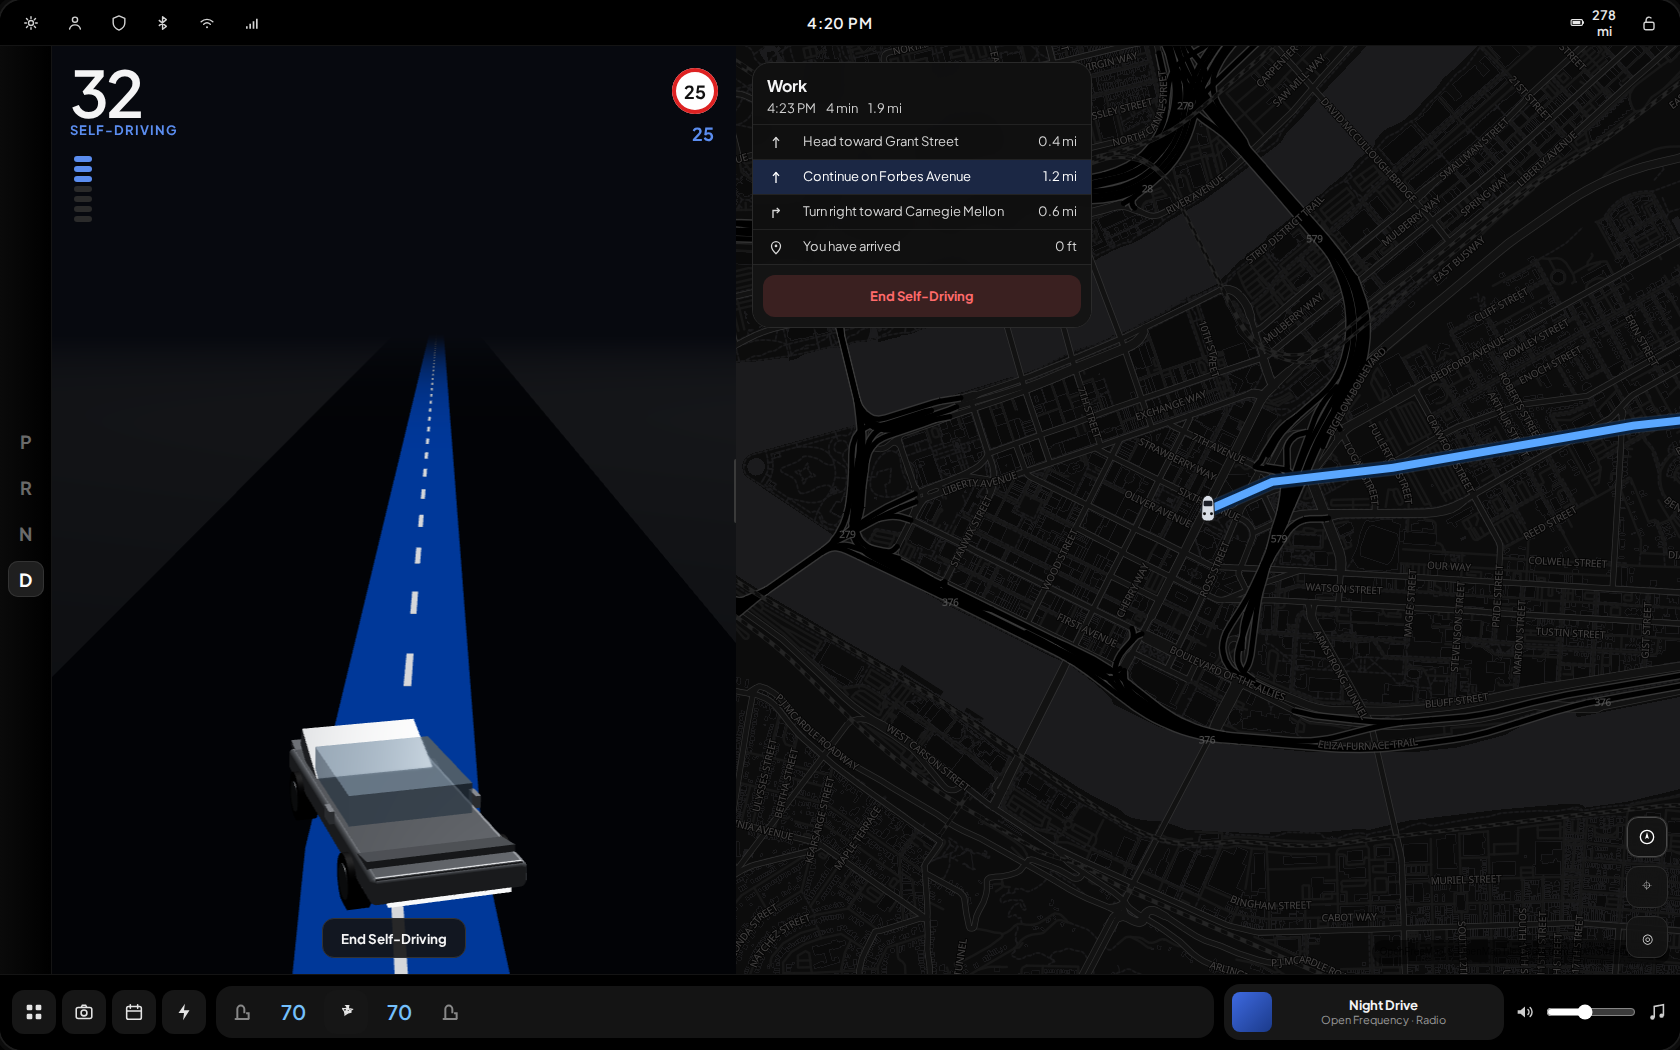
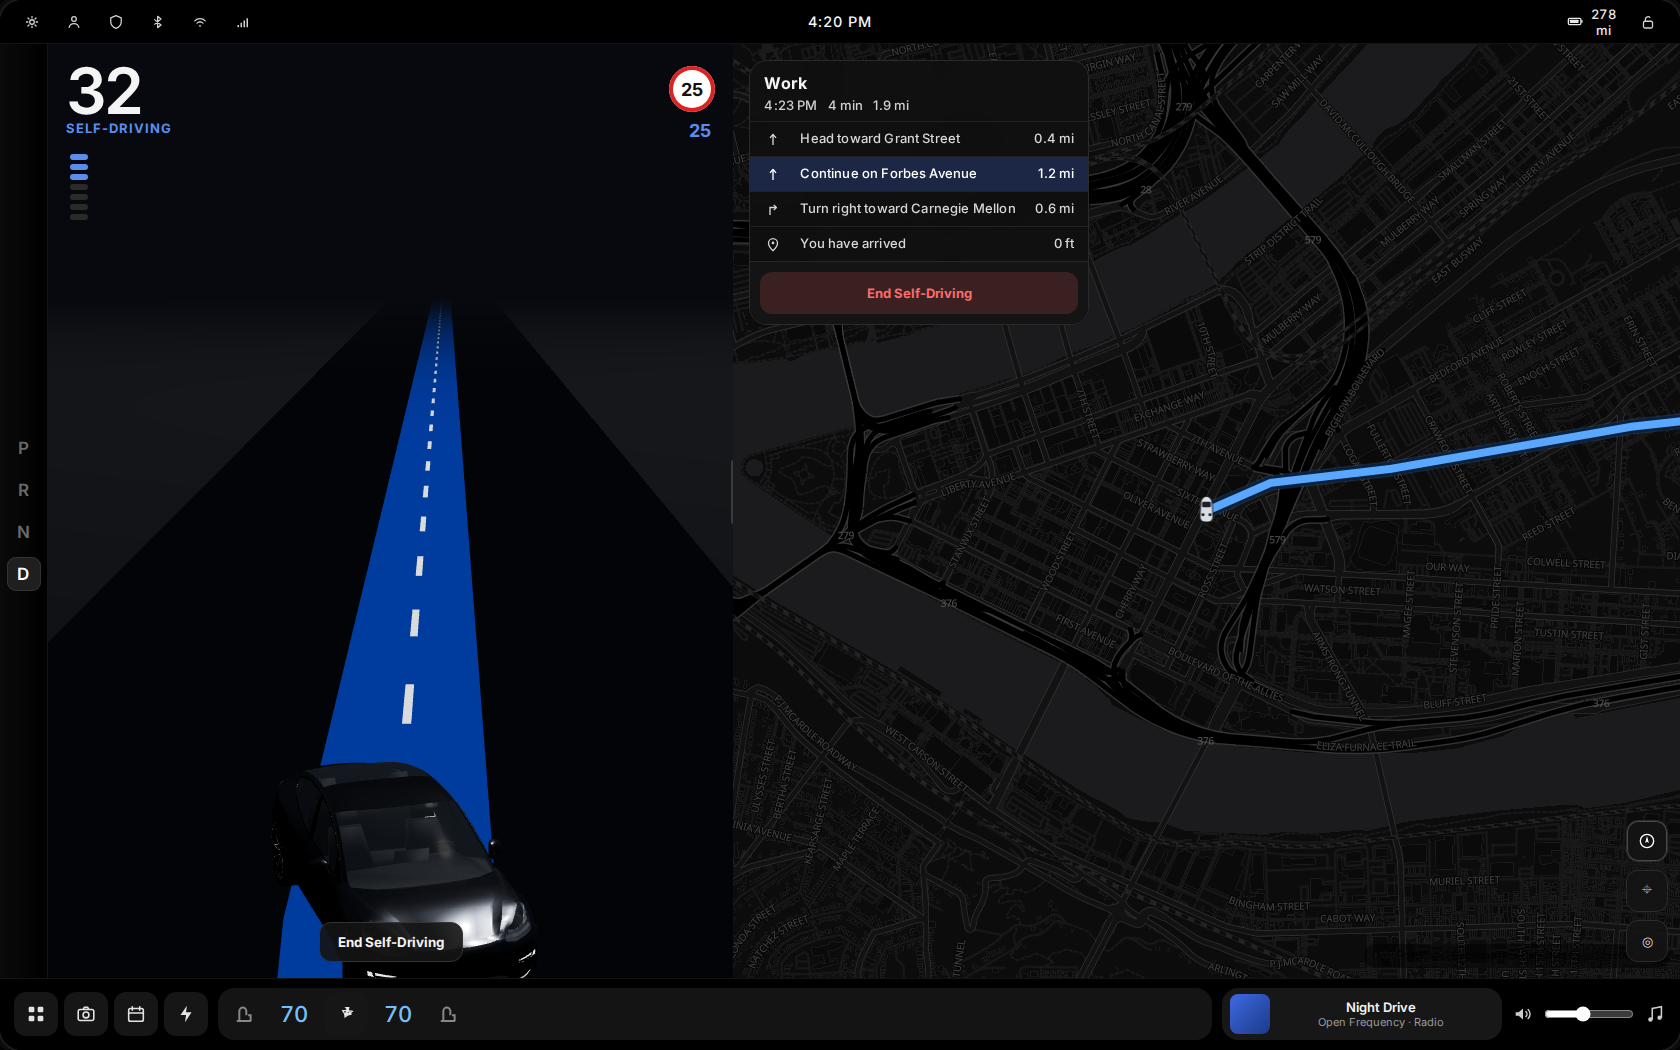
Rebaseline QA stills after parked fullscreen Model 3
npm run qa:screenshots against the CC-BY studio. parked-home is
PARTIAL vs nata-parked-car-vis.jpg (full-screen car, map snippet,
Navigate + media). Give Playwright more time for Draco/GLB load.

diff --git a/tests/visual/qa.spec.ts b/tests/visual/qa.spec.ts
@@ -6,7 +6,7 @@ const OUT = path.join("docs", "qa", "screenshots");
 
 async function capture(page: import("@playwright/test").Page, scene: QaSceneId): Promise<void> {
   await page.goto(`/tesla-m3y-ui/?qa=${scene}`, { waitUntil: "domcontentloaded" });
-  await page.waitForSelector('html[data-qa-ready="true"]', { timeout: 45_000 });
+  await page.waitForSelector('html[data-qa-ready="true"]', { timeout: 90_000 });
   await page.evaluate(async () => {
     await document.fonts.ready;
   });

diff --git a/playwright.qa.config.ts b/playwright.qa.config.ts
@@ -4,7 +4,7 @@ export default defineConfig({
   testDir: "./tests/visual",
   fullyParallel: false,
   workers: 1,
-  timeout: 90_000,
+  timeout: 120_000,
   expect: { timeout: 20_000 },
   reporter: [["list"]],
   use: {

diff --git a/docs/qa/CHECKLIST.md b/docs/qa/CHECKLIST.md
@@ -21,10 +21,10 @@ Baseline captured from this harness on 2026-09-16 (`docs/qa/screenshots/*.png`).
 | --- | --- | --- | --- | --- |
 | Parked home | `screenshots/parked-home.png` | `manual-m3-touchscreen-p8.jpg`, `nata-parked-car-vis.jpg` | PARTIAL | Full-screen CC-BY Model 3, light studio, faded map snippet TR, Navigate + media lower third (`parked-home.png` 2026-09-16). Remaining vs `nata-parked-car-vis.jpg`: mesh/PBR not Tesla-grade (dark gray 3/4 hero, not red rear-3/4), TRUNK Open is a chip not a callout card, PRND still full-height, status-bar order still FAIL. |
 | Route set | `screenshots/route-set.png` | `manual-m3-maps-nav-p170.jpg`, `nata-trip-progress.jpg` | PARTIAL | Turn list + Start FSD sit on the parked fullscreen (map snippet TR). No traffic progress bar, no gray traveled path, no energy-to-destination. |
-| FSD engaged | `screenshots/fsd-engaged.png` | `manual-m3-driving-status-p16.jpg`, `nata-ui-v12-hero.jpg` | FAIL | Viz does not prove it sits on the same road the map drives. Cheap traffic/lanes. Media player is in the dock, not on the viz. |
+| FSD engaged | `screenshots/fsd-engaged.png` | `manual-m3-driving-status-p16.jpg`, `nata-ui-v12-hero.jpg` | FAIL | CC Model 3 now sits on the ribbon (this PR) but does not prove it is on the same road the map drives. Cheap traffic/lanes. Media player is in the dock, not on the viz. |
 | Controls open | `screenshots/controls.png` | `nata-quick-controls.jpg`, `nata-controls-search.jpg` | FAIL | Sheet covers the whole stage. Missing top Search, wrong categories (no Dynamics/Charging/Trips), tile layout ≠ Quick Controls. |
 | Climate open | `screenshots/climate.png` | `manual-m3-climate-popup-p160.jpg` | FAIL | Generic panel, not Tesla popup (seats / defrost / Split slider). |
-| Media open | `screenshots/media.png` | `nata-media-player-full.jpg` | FAIL | Small opaque dialog. v12 wants translucent player with scrubber, shuffle, repeat, search, EQ. |
+| Media open | `screenshots/media.png` | `nata-media-player-full.jpg` | FAIL | Parked has an on-viz strip (this PR). The open player is still a small opaque dialog. v12 wants translucent player with scrubber, shuffle, repeat, search, EQ. |
 | Viz expanded | `screenshots/viz-expanded.png` | `nata-park-assist-fullscreen.jpg` | FAIL | Mini-map exists only at extreme drag. No centered Navigate + media on the viz. Surroundings look sparse. |
 
 ## Layout / type / chrome (all scenes)

diff --git a/docs/qa/screenshots/README.md b/docs/qa/screenshots/README.md
@@ -1,4 +1,4 @@
 # Generated by `npm run qa:screenshots`. Commit updates with checklist changes.
 
-Baseline from this harness PR (2026-09-16). All seven scenes captured against the current UI so other lanes can diff.
+Re-baselined 2026-09-16 after the parked viz / CC Model 3 landing. Parked-home is a full-screen studio vehicle (PARTIAL vs `nata-parked-car-vis.jpg`). All seven scenes captured so other lanes can diff.
 
